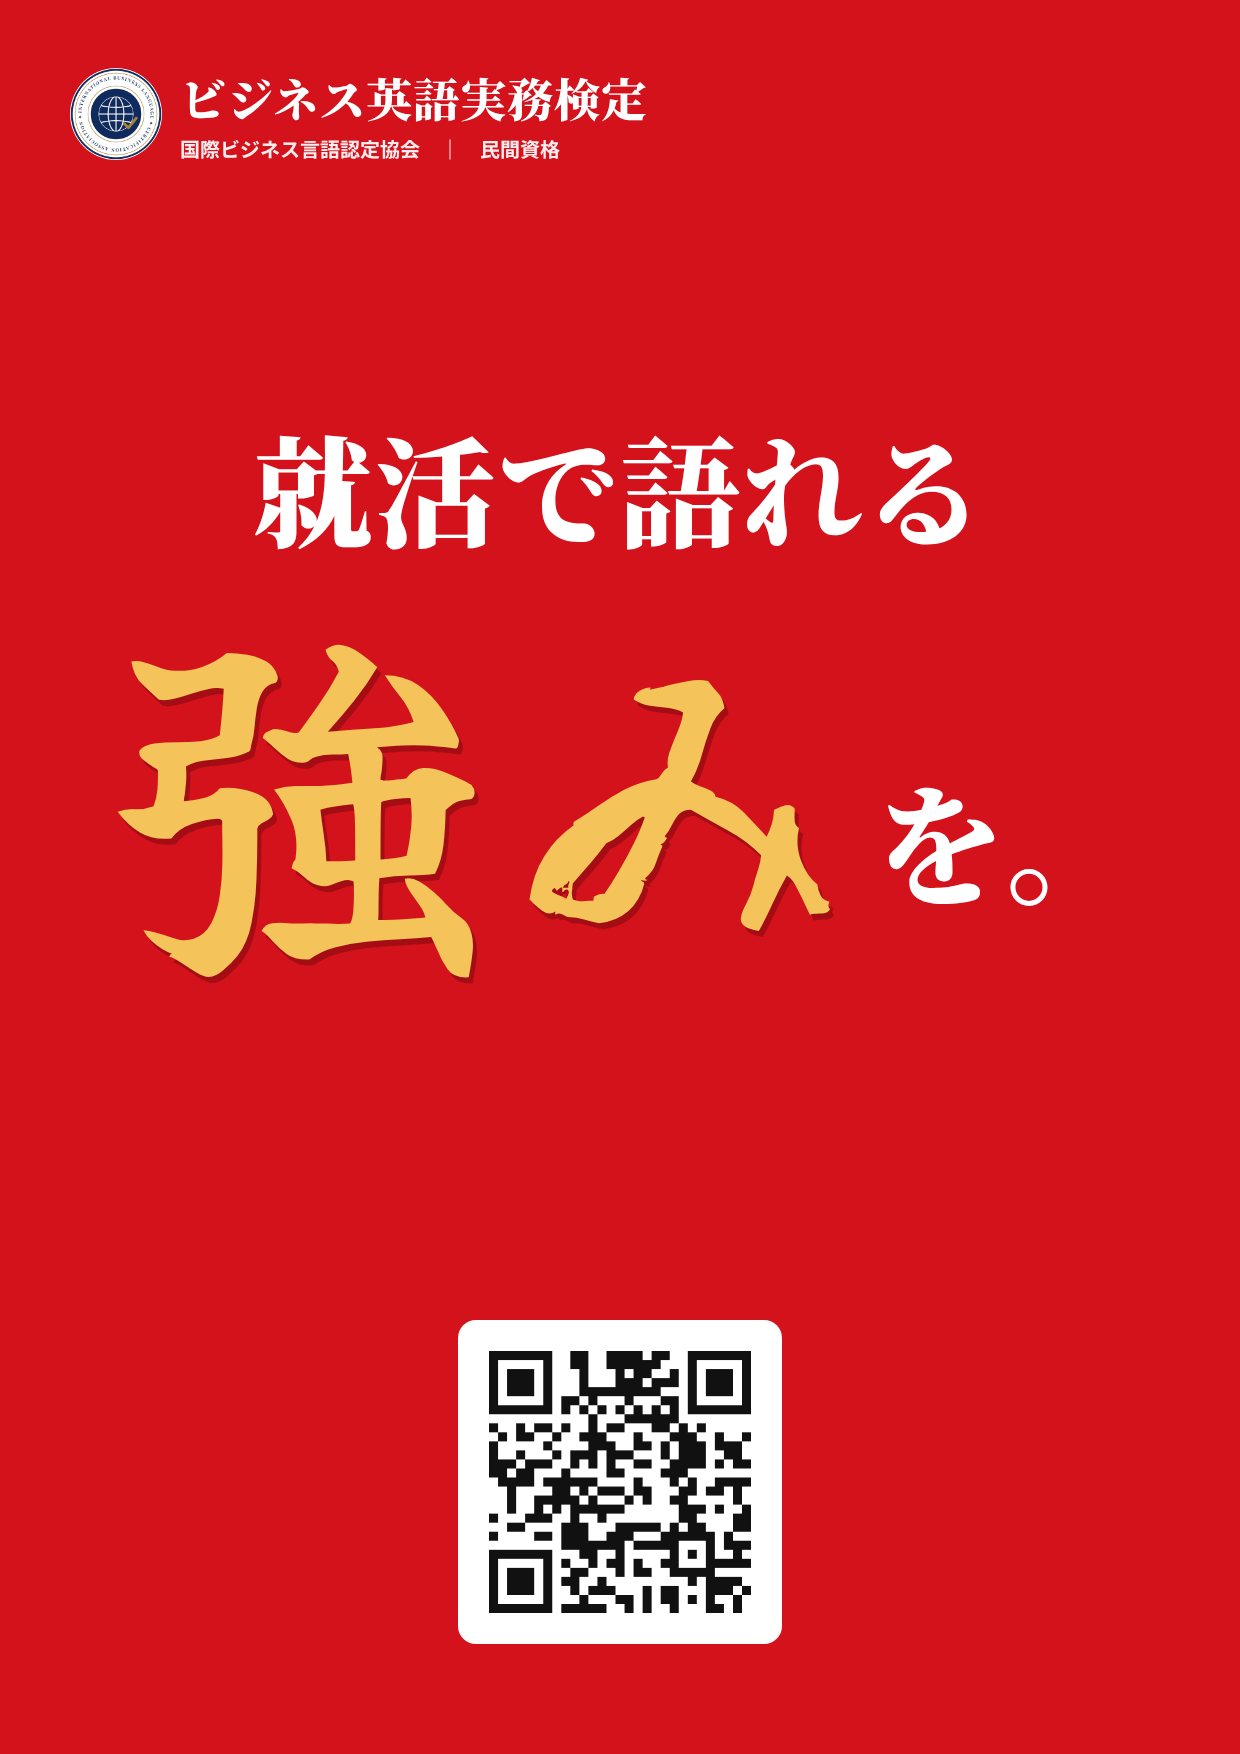
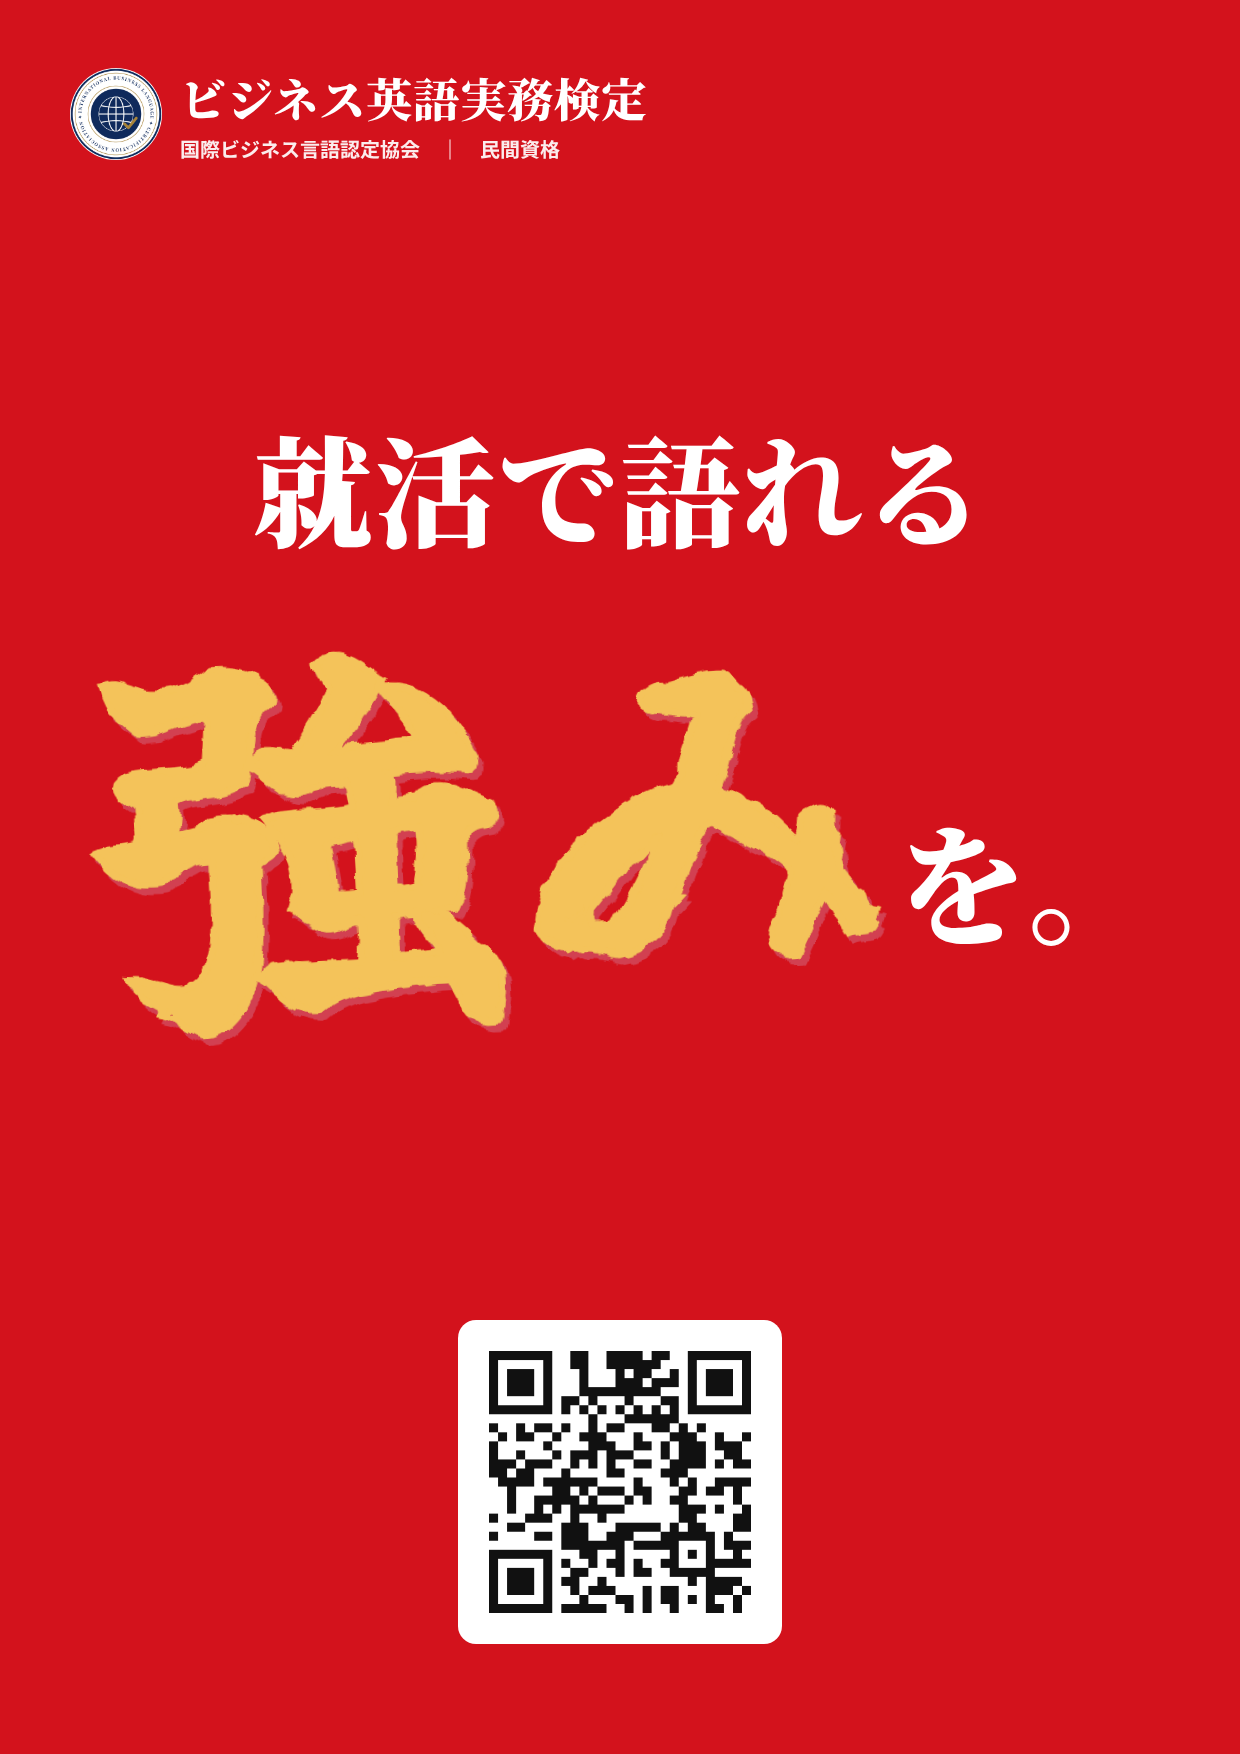
赤チラシの「強み」を太い筆文字に
Claude-Session: https://claude.ai/code/session_01T3NaLWbuuvRT9b8SoudneK

Changed region(s): [[0.0613, 0.3694, 0.429, 0.6157], [0.429, 0.3694, 0.8581, 0.5542]]

diff --git a/連絡帳.md b/連絡帳.md
@@ -88,7 +88,7 @@
 - ①紺：見本 assets/本陣へ/見本_大学チラシ_差をつけろ.png
   - 上に赤い帯「就活生応援キャンペーン」→ ホームページと同じ学生4人の写真（cp-ph4.jpg）をはっきり → 少し明るい紺の地（例 #1b3d72）に「ビジネス英語実務検定 初級」「受験料　無料」（横並び、無料は赤い札）「12/25まで」→ 見出し「履歴書で、周りと差をつけろ！」→ 20分・24時間・合格証 → 白い枠にQRと「履歴書を、より強く。強みを、より多く。」
 - ②赤：見本 assets/本陣へ/見本_大学チラシ_強み_赤.png
-  - 全面赤。左上に「ビジネス英語実務検定」ロゴ（国際ビジネス言語認定協会｜民間資格）。真ん中に「就活で語れる」（白）＋「強み」（金の筆文字で特大）＋「を。」（白）。下にQRだけ。ほかの文字は足さない（大将の指示）。
+  - 全面赤。左上に「ビジネス英語実務検定」ロゴ（国際ビジネス言語認定協会｜民間資格）。真ん中に「就活で語れる」（白）＋「強み」（金の太い筆文字で特大。ふちがかすれた墨の筆っぽさを出す）＋「を。」（白）。下にQRだけ。ほかの文字は足さない（大将の指示）。
 - 上の作戦2（白のチラシ）は、お母さん向けの手渡し・ポスティング用として別に作る。
 
 ### できあがったら（作戦1・2 共通）
